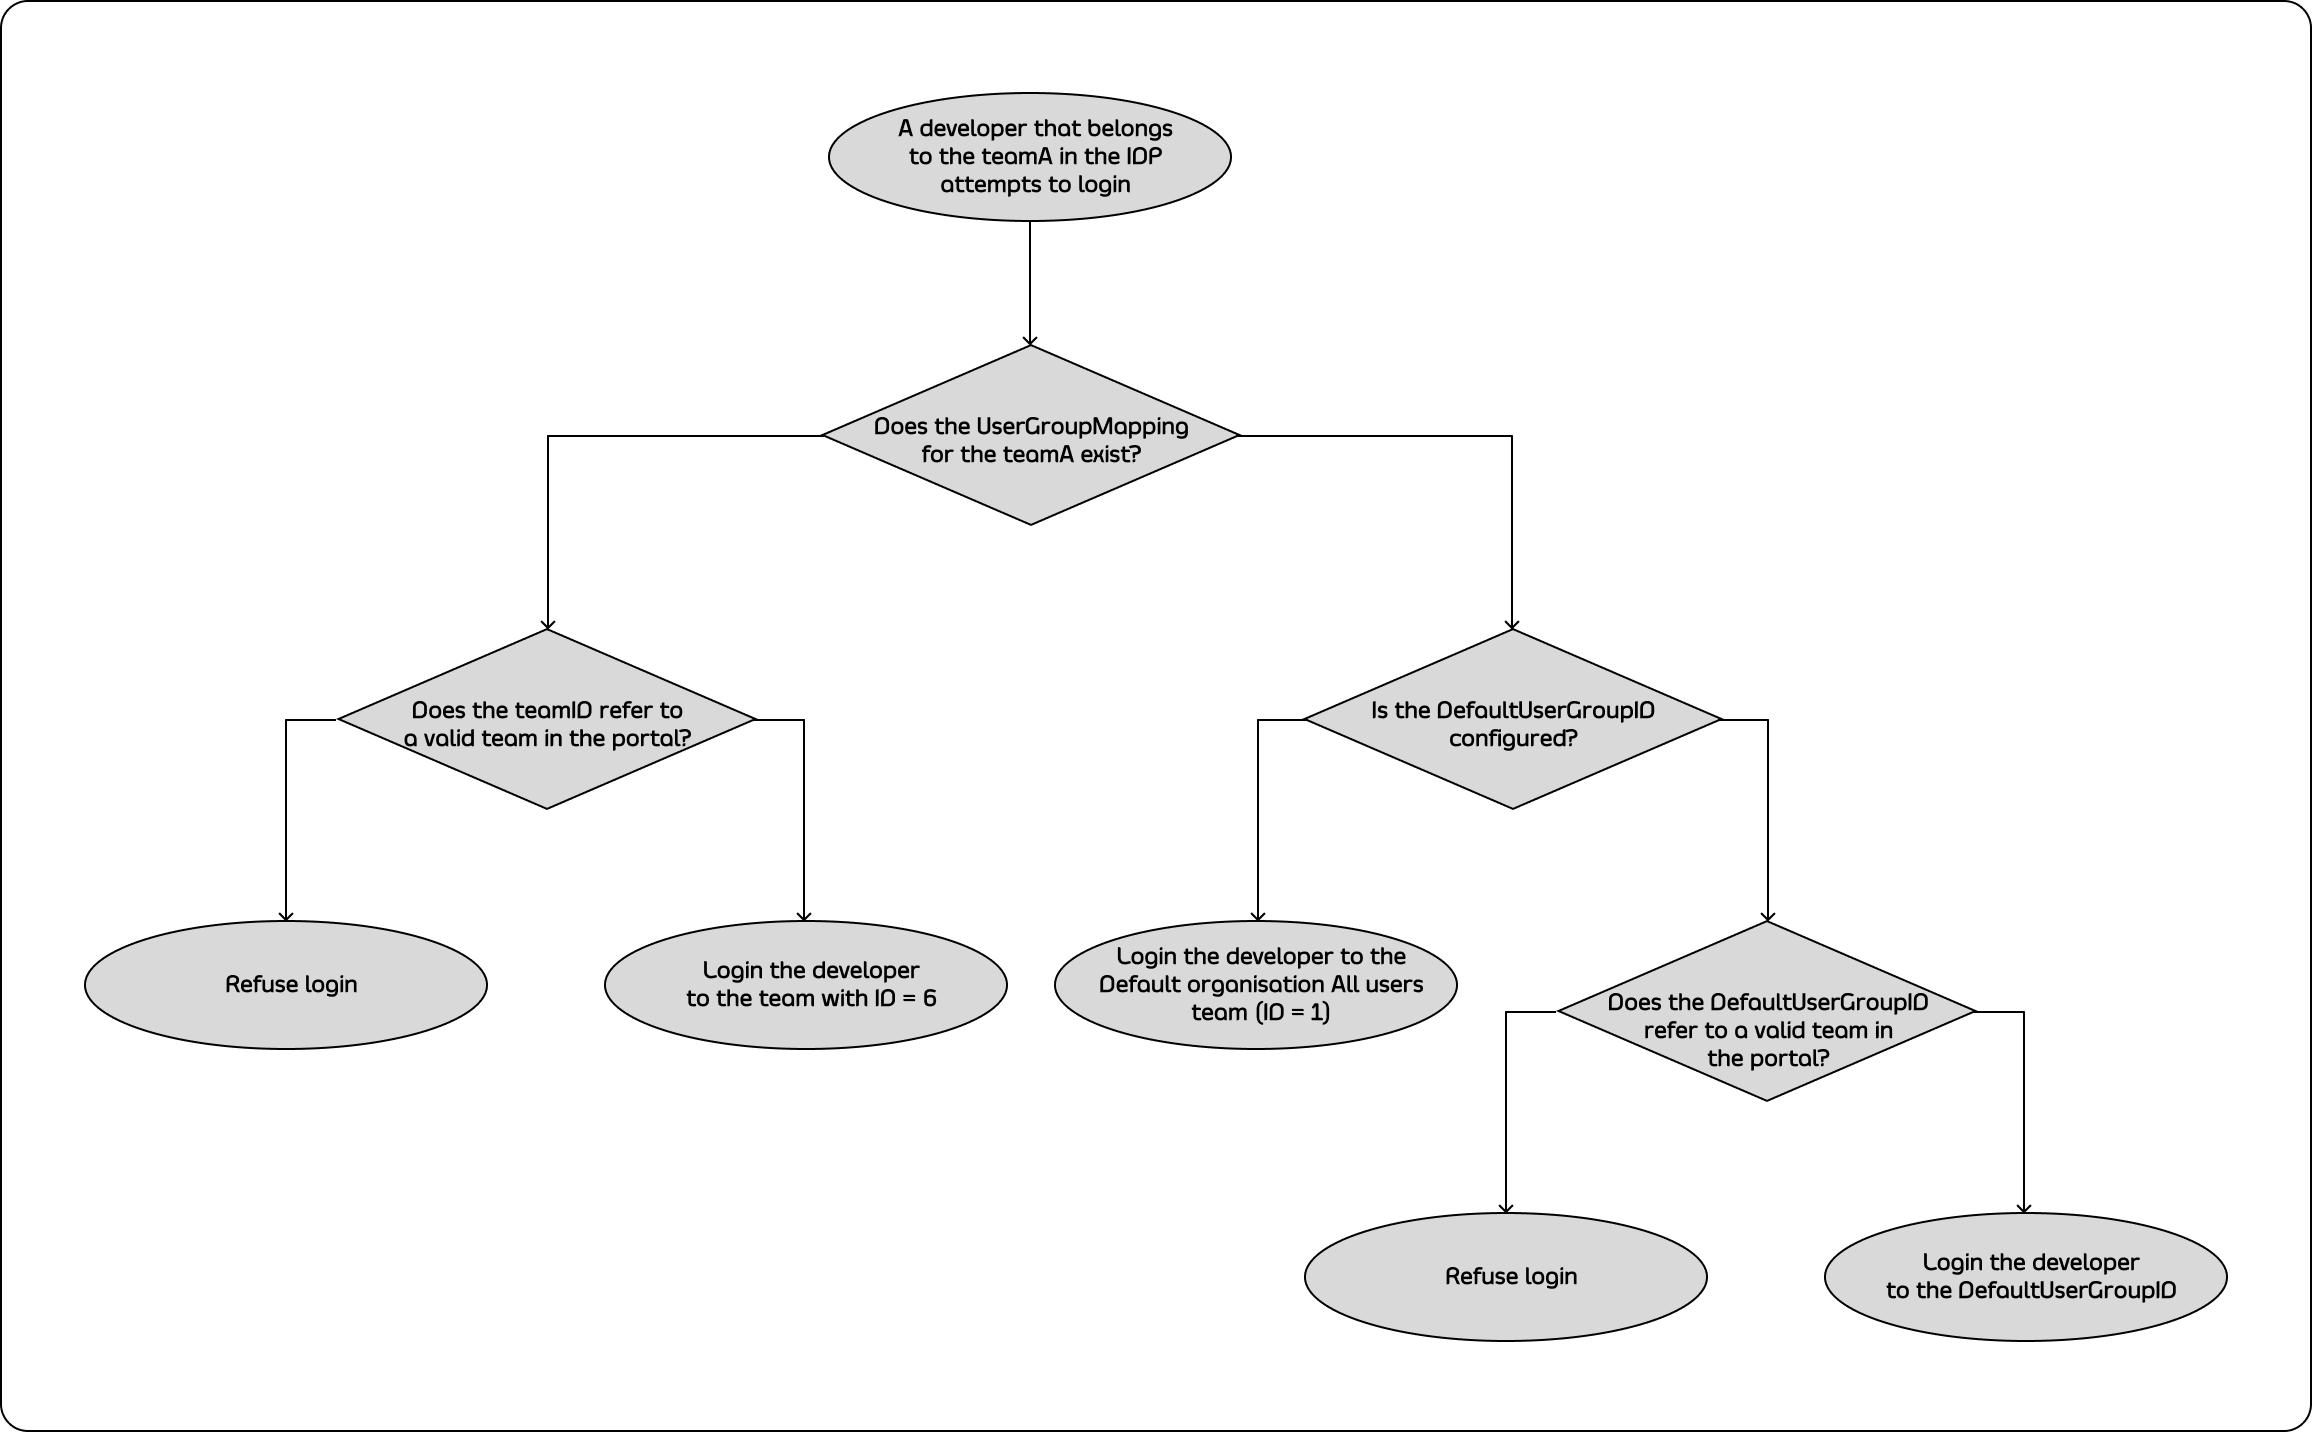
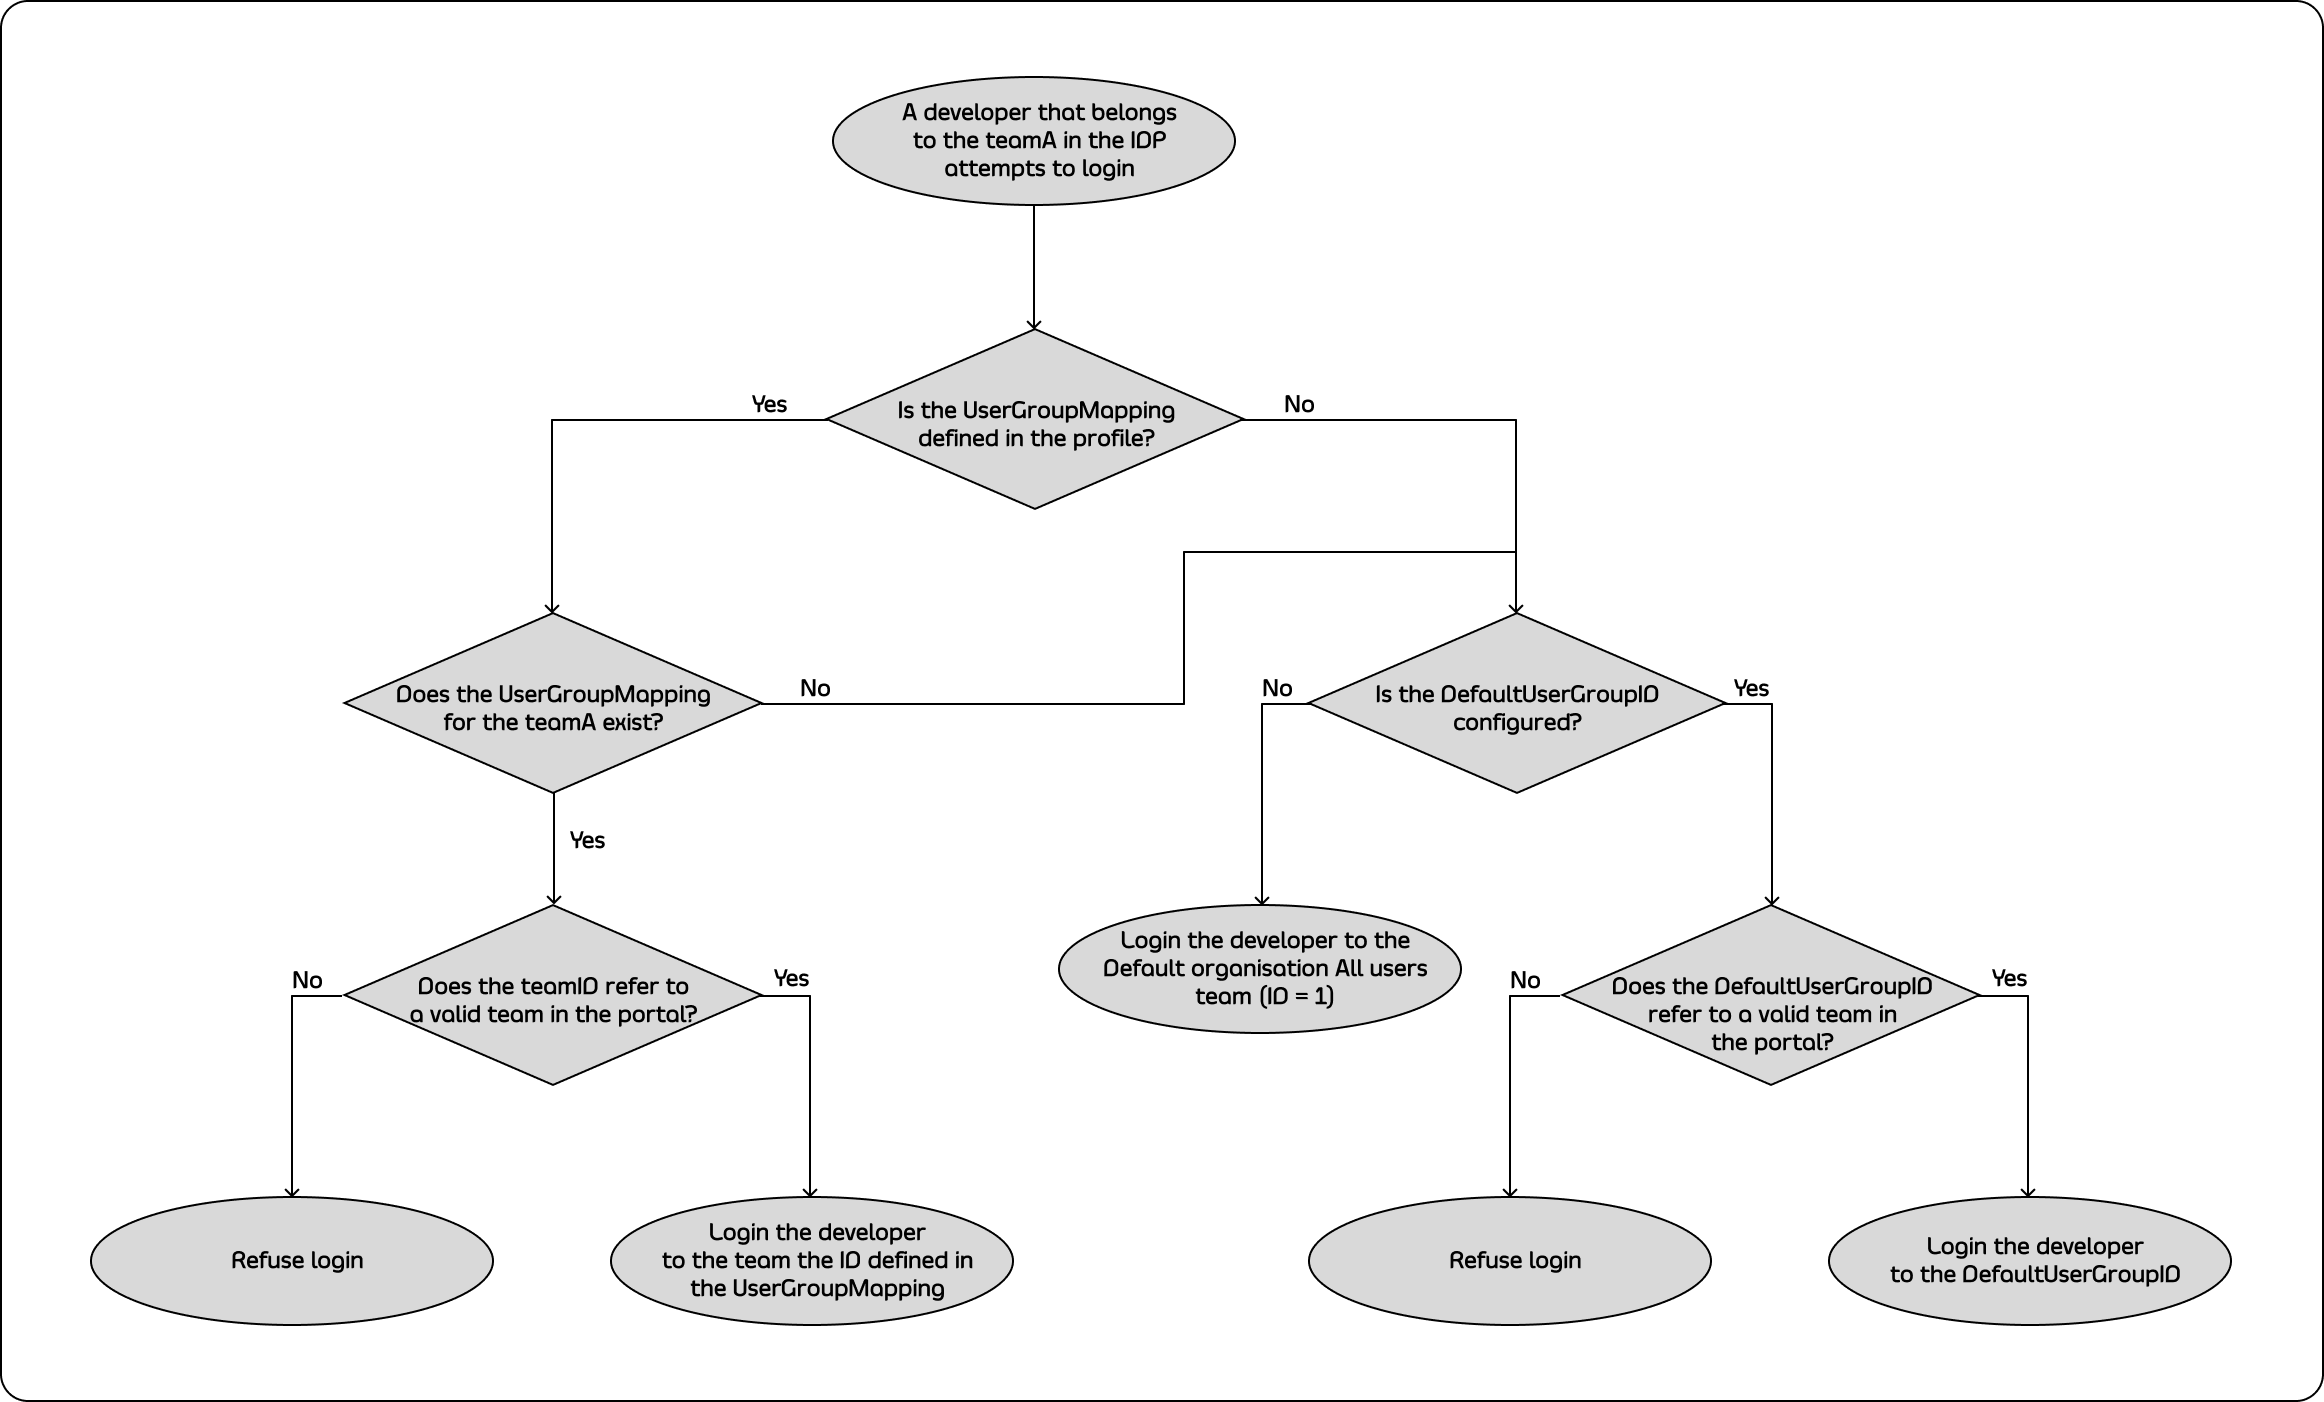
Fix diagram and provide better guidance for OIDC TIB profiles.

diff --git a/tyk-docs/content/tyk-stack/tyk-developer-portal/enterprise-developer-portal/managing-access/enable-sso.md b/tyk-docs/content/tyk-stack/tyk-developer-portal/enterprise-developer-portal/managing-access/enable-sso.md
@@ -145,8 +145,30 @@ In the above example, you need to specify the following parameters:
 - Replace `{TIB host}` and `{TIB port}` with the actual host and port on which your TIB instance is running. Also, replace `http` with `https` for the respective fields if you use https for your TIB instance
 - In the `"ID"` field, specify an ID of this TIB profile. You can select any value for this field that consists of digits, letters, and special signs, no spaces allowed. It is better to pick a human-readable ID for your profile for better maintainability of the configuration
 
+{{< note info >}}
+**Nuances of OIDC configuration**
+
+To ensure that the portal can log in a user with your OIDC Identity provider, you may need to either explicitly specify the email scopes in a profile
+configuration or configure your IDP to include the email claim in the JWT. Failure to include the email scope in the JWT
+would result in the portal not having access to the user's email.
+
+As an example, for Okta, you can use the following configuration:
+```json
+"UseProviders": [
+  {
+    "Name": "openid-connect",
+    "Key": "{oAuth2.0 key}",
+    "Secret": "{oAuth2.0 secret}",
+    "Scopes": ["openid", "email"],
+    "DiscoverURL": "{OIDC well-known endpoint}"
+  }
+]
+```
+
+{{< /note >}}
+
 Please refer to the [TIB configuration section]({{< ref "advanced-configuration/integrate/sso" >}}) for step-by-step instructions for setting up the UseProviders section.
-Any changes to the TIB profile will be effective after restarting you TIB instance.
+Any changes to the TIB profile will be effective after restarting your TIB instance.
 
 2. Create a login page for admin users. We don't supply a login page for Single Sign-On out of the box, so you need to create one.
    Here is an example of such page that works with a profile for LDAP identity management system:
@@ -177,8 +199,25 @@ in the TIB profile that creates a binding between user groups in your IDP and de
 
 {{< img src="/img/dashboard/portal-management/enterprise-portal/user-group-mapping.png" alt="User group mapping" width="600">}}
 
-The portal uses the following algorithm to determine if it should let a developer to login and to which team should the developer join,
+To define the user group mapping for your developer audience, you need to add the UserGroupMapping object to the corresponding TIB profile:
+```json
+  "UserGroupMapping": {
+    "{IDP groupA ID}": "{portal teamA ID}",
+    "{IDP groupB ID}": "{portal teamB ID}",
+    ...
+  }
+```
+
+The `UserGroupMapping` object contains keys that refer to group IDs in your IDP, and the corresponding values are team IDs in the portal.
+When the Tyk Identity Broker authorizes a user, it searches for a key that matches the user's group ID in the IDP.
+If TIB can't find a matching group ID, it logs the user in to the team with an ID equal to `DefaultUserGroupID` in the portal (if `DefaultUserGroupID` is defined).
+We recommend always defining `DefaultUserGroupID` and ensuring that it refers to a valid team ID in your portal instance. If `DefaultUserGroupID` is defined but refers to an invalid team ID, the portal will refuse login attempts.
+
+If no matching group ID is found in the `UserGroupMapping` object and `DefaultUserGroupID` isn't defined, the portal logs in the user to the "Default organization | All users" team with an ID of 1.
+
+To determine whether a developer should be allowed to log in and which team they should be logged into, the portal uses the following algorithm:
 {{< img src="/img/dashboard/portal-management/enterprise-portal/user-group-mapping-algorithm.png" alt="User group mapping algorithm" width="1000">}}
+
 
 #### Configure profile to enable Single Sign-On for developers
 Follow these steps to enable Single Sign-On for developers: 
@@ -223,6 +262,29 @@ In the above example, you need to specify the following parameters:
 - `CustomUserGroupField` must be equal to the JWT claim name that refers to the user group in your IDP
 - `UserGroupMapping` an object that defines relationship between user groups in the IDP and teams in the portal. The optional parameter, if not specified, will cause the portal to rely on the `DefaultUserGroupID` field to determine which team a developer should log in to. Please refer to the [User group mapping section]({{< ref "tyk-stack/tyk-developer-portal/enterprise-developer-portal/managing-access/enable-sso#user-group-mapping" >}} ) for guidance
 - `DefaultUserGroupID` is the default organization that the portal will use to determine which team a developer should be logged in to if it is not able to find a UserGroupMapping for that developer
+
+{{< note info >}}
+**Nuances of OIDC configuration**
+
+To ensure that the portal can log in a user with your OIDC Identity provider, you may need to either explicitly specify the email scopes in a profile
+configuration or configure your IDP to include the email claim in the JWT. Failure to include the email scope in the JWT
+would result in the portal not having access to the user's email.
+
+As an example, for Okta, you can use the following configuration:
+```json
+"UseProviders": [
+  {
+    "Name": "openid-connect",
+    "Key": "{oAuth2.0 key}",
+    "Secret": "{oAuth2.0 secret}",
+    "Scopes": ["openid", "email"],
+    "DiscoverURL": "{OIDC well-known endpoint}"
+  }
+]
+```
+
+{{< /note >}}
+
 2. Create a login page for developers. We don't supply a login page for Single Sign-On out of the box, so you need to create one.
    Here is an example of such page that works with a profile for LDAP identity management system:
 ```.html
